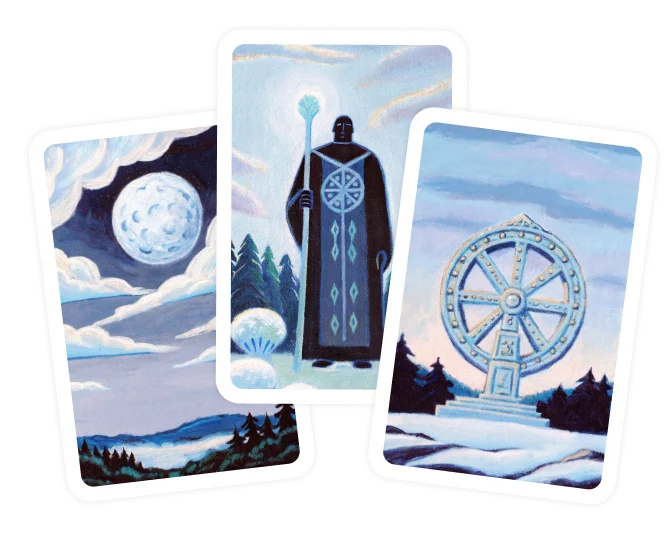
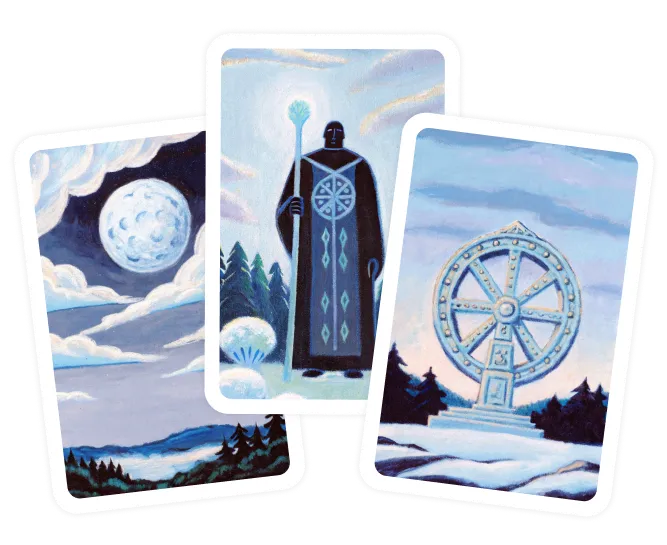
feat: 히어로 이미지 교체 및 스프레드 이미지 업데이트
- 메인 홈 히어로 이미지를 새 디자인으로 교체 (PNG→WebP 최적화, 494KB→58KB)
- 스프레드 선택 이미지 4종 업데이트
- 카드 슬롯 로마숫자 폰트 웨이트 Medium(500)으로 변경

diff --git a/src/components/tarot/CardSlot.tsx b/src/components/tarot/CardSlot.tsx
@@ -70,7 +70,7 @@ export function CardSlot({ index, label, filled, onClick }: CardSlotProps) {
             variant="title3"
             weight="bold"
             color="semantic.label.disable"
-            sx={{ fontSize: "17px", fontFamily: "'Noto Sans', sans-serif", fontWeight: 600 }}
+            sx={{ fontSize: "17px", fontFamily: "'Noto Sans', sans-serif", fontWeight: 500 }}
           >
             {["I", "II", "III"][index]}
           </Typography>

diff --git a/src/app/layout.tsx b/src/app/layout.tsx
@@ -38,7 +38,7 @@ export default function RootLayout({
         />
         <link
           rel="stylesheet"
-          href="https://fonts.googleapis.com/css2?family=Noto+Sans:wght@600&display=swap"
+          href="https://fonts.googleapis.com/css2?family=Noto+Sans:wght@500&display=swap"
         />
       </head>
       <body>
